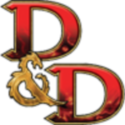
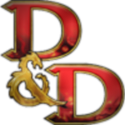
work

diff --git a/templates/master.html b/templates/master.html
@@ -7,7 +7,7 @@
   <script src="{{ url_for('static', filename='jquery.js') }}"></script>
     <script src="{{ url_for('static', filename='bootstrap.min.js') }}"></script>
   {% endblock %}
-  <title>{% block title %}DandD{% endblock %}</title>
+  <title>{% block title %}Dungeon Master{% endblock %}</title>
   <link rel="icon" type="image/png" href="{% block favicon %}{{ url_for('static', filename='DandD.png') }}{% endblock %}">
 </head>
 <body>
@@ -19,7 +19,7 @@
           <span class="sr-only">Toggle navigation</span>
           <span class="icon-bar"></span><span class="icon-bar"></span><span class="icon-bar"></span> <!-- For the icon! -->
         </button>
-        <a class="navbar-brand" href="/home"><img id="logo" src="{{url_for('static', filename='DandD.png')}}"></a> <!-- For the logo effect! -->
+        <a class="navbar-brand" href="/home"><img id="logo" src="{{url_for('static', filename='d&dlogo.png')}}"></a> <!-- For the logo effect! -->
       </div>
 
       <!-- Collect the nav links, forms, and other content for toggling -->
@@ -28,7 +28,7 @@
           <li><a href="/games">Games</a></li>
           <li><a href="/characters">Characters</a></li>
           <li>{% if session["user"] %}<a href="/logout">Logout</a>{% else %}<a href="/login">Login</a>{% endif %}</li>
-          <li>{% if not session['user'] %}<a href="/register">Register</a>{% endif %}</li>
+          <li class="lastright">{% if not session['user'] %}<a href="/register">Register</a>{% endif %}</li>
         </ul>
       </div><!-- /.navbar-collapse -->
     </div><!-- /.container-fluid -->

diff --git a/static/styles.css b/static/styles.css
@@ -1,22 +1,34 @@
 #logo{
-  width:30px;
-  length:30px;
-  border:3px solid white;
+  width:200px;
+  height:50px;
+  border:3px solid black;
+  padding:5px;
   background-color: white;
 }
 #top{
-  background-color: black;
+  background-color: white;
+  border-bottom: 2px solid black;
 }
 
 err{
   color:red;
 }
 
-li{
+
+.navbar-nav > li{
+  line-height: 1;
   min-width: 100px;
   text-align:center;
-  color:white;
-  background-color: black;
+  background-color: inherit;
+  border-right: 1px solid gray;
+  padding-top:0px;
+  padding-bottom:0px;
+  margin-top:10px;
+  margin-bottom:10px;
+}
+
+li.lastright{
+  border-right:0px;
 }
 
 li.current{

diff --git a/templates/login.html b/templates/login.html
@@ -6,6 +6,7 @@
 {% endblock %}
 
 {% block body %}
+{% if r %} <err>Please Login!!</err> {% endif %}
 Username:<input type="text" name="username" id="username"></input>
 Password:<input type="password" name="password" id="password"></input>
 <button id="sendlogin">Login</button>

diff --git a/templates/index.html b/templates/index.html
@@ -3,9 +3,6 @@
 {% block head %}
 {{ super() }}
 {% endblock %}
-{% block title %}
-Home
-{% endblock %}
 {% block body -%}
 
 Hello there!

diff --git a/app.py b/app.py
@@ -5,7 +5,6 @@ import utils
 app = Flask(__name__)
 app.secret_key = utils.secretkey
 
-
 @app.route("/")
 @app.route("/index")
 @app.route("/home")
@@ -14,14 +13,14 @@ def index():
     #     return redirect("/login")
     return render_template("index.html")
 
-
 @app.route("/login", methods=["GET", "POST"])
-def login():
+@app.route("/login/<r>")
+def login(r=None):
     if request.method == "GET": # What people see when they click "Login"
         if 'user' in session and session['user']:
             print session['user']
             return redirect("/home")
-        return render_template("login.html")
+        return render_template("login.html", r=r)
     else:
         form = request.form
         username = form['username'] or ""
@@ -54,28 +53,33 @@ def logout():
     return redirect('/login')
 
 
-@app.route("/create_char", methods=["GET", "POST"])
-#The page for creating a new character / editing character info
+@app.route("/create_char", methods=["GET", "POST"]) #The page for creating a new character / editing character info
 def create_char():
     if request.method == "GET": # So people can only access it while logged in
-        return redirect("/home")
-    else:
-        return render_template("create_char.html")
-@app.route("/game", methods=["GET", "POST"])
-#The page where you can view the details of a game
-def game():
-    if request.method == "GET": # So people can only access it while logged in
-        return redirect("/home")
-    else:
-        return render_template("game.html")
+        if 'user' in session and session['user']:
+            return render_template("create_char.html")
+        else:
+            return redirect("/login/redirect")
+
+@app.route('/games')# Page for viewing the list of all of your games
+def games():
+    return redirect("games.html")
     
-@app.route("/create_item", methods=["GET", "POST"])
-#The page for creating new items / editing item info
+@app.route("/gameinfo", methods=["GET", "POST"]) #The page where you can view the details of a game
+def gameinfo():
+    if request.method == "GET": # So people can only access it while logged in
+        if 'user' in session and session['user']:
+            return render_template("gameinfo.html")
+        else:
+            return redirect("/login/redirect")
+
+@app.route("/create_item", methods=["GET", "POST"]) #The page for creating new items / editing item info
 def create_item():
     if request.method == "GET": # So people can only access it while logged in
-        return redirect("/home")
-    else:
-        return render_template("create_item.html")
+        if 'user' in session and session['user']:
+            return render_template("create_item.html")
+        else:
+            return redirect("/login/redirect")
 
 if __name__ == "__main__":
     app.debug = True
